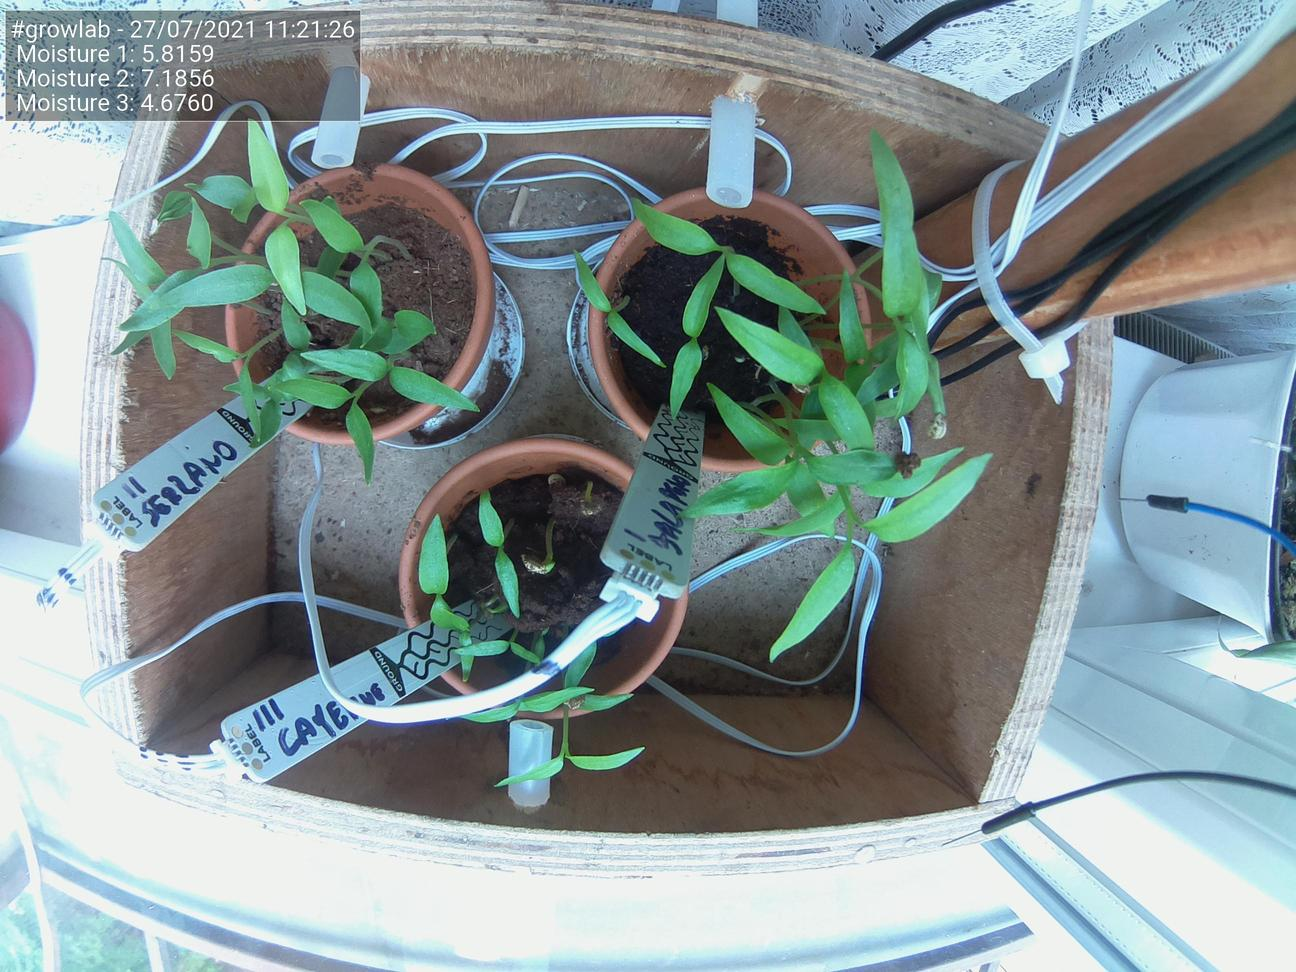
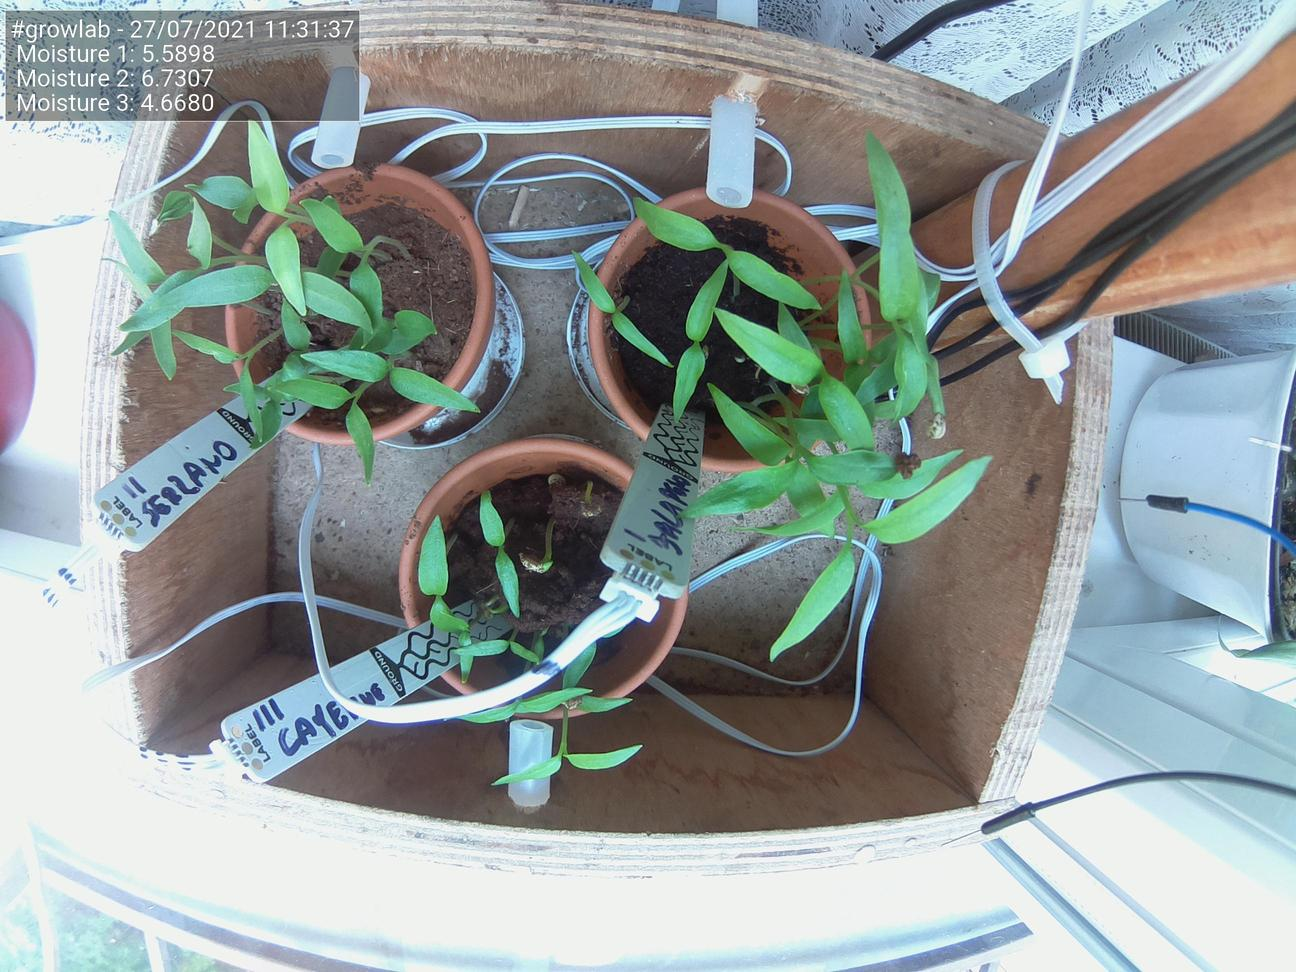
Update images at Tue 27 Jul 11:31:42 BST 2021

diff --git a/docs/index.html b/docs/index.html
@@ -51,25 +51,25 @@
                                 <td>Date</td>
                                 <td>27/07/2021</td>
                                 <td>Time</td>
-                                <td>11:21:26</td>
+                                <td>11:31:37</td>
                             </tr>
                             <tr>
                                 <td>Temperature</td>
                                 <td>N/A</td>
                                 <td>Moisture 1</td>
-                                <td>5.8159</td>
+                                <td>5.5898</td>
                             </tr>
                             <tr>
                                 <td>Humidity</td>
                                 <td>N/A</td>
                                 <td>Moisture 2</td>
-                                <td>7.1856</td>
+                                <td>6.7307</td>
                             </tr>
                             <tr>
                                 <td>Pressure</td>
                                 <td>N/A</td>
                                 <td>Moisture 3</td>
-                                <td>4.6760</td>
+                                <td>4.6680</td>
                             </tr>
                         </tbody>
                     </table>
@@ -77,7 +77,7 @@
 
                 <h5>Latest image</h5>
                 <div style="width: 85%;">
-                            <img class="figure-img img-fluid rounded" src="./preview.jpg?uid=1627381292.6306915">
+                            <img class="figure-img img-fluid rounded" src="./preview.jpg?uid=1627381902.6902127">
                 </div>
             </div>
         </div>
